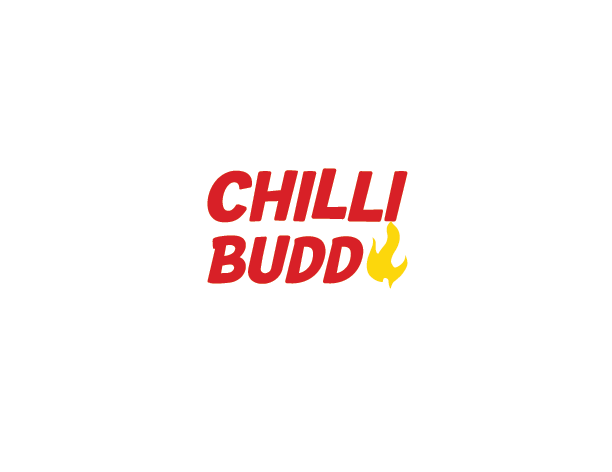
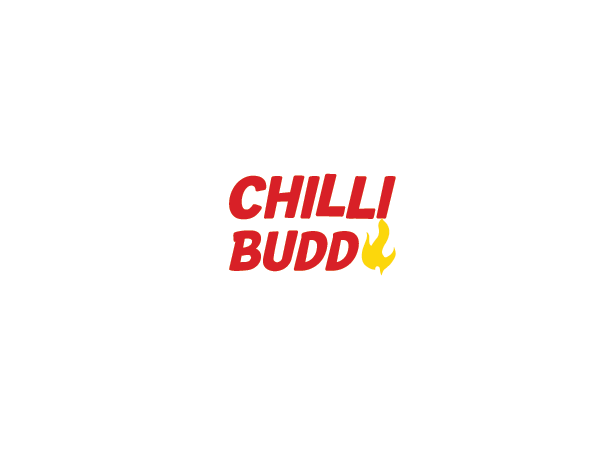
Fixed splash screen and edited app.js

Changed region(s): [[0.3415, 0.3559, 0.683, 0.6229]]

diff --git a/src/components/templates/Main/index.js b/src/components/templates/Main/index.js
@@ -45,7 +45,7 @@ export default ({
   noImageAdvertisement,
   noImageHeaderSlider,
   readLoadingAdvertisement,
-  readLoadingRoute,
+  readLoadingCategoryList,
   readLoadingRouteTicket,
   readLoadingHeaderImages,
 }) => {
@@ -101,7 +101,7 @@ export default ({
             >
               <View style={styles.textHolderStyle2}>
                 <CustomIcon name={data.icon} size={30} style={styles.categoryIcon} />
-                <Text style={styles.cardTitle2}>{data.title}</Text>
+                <Text style={styles.cardTitle2}> {data.title} </Text>
               </View>
             </ImageBackground>
           </CardSection>
@@ -139,10 +139,10 @@ export default ({
           )}
         </View>
 
-        {readLoadingRoute ? (
+        {readLoadingCategoryList ? (
           <View style={styles.subContainer2}>
             <View>
-              <Text style={styles.sectionTitle}>{sectionTitle1}</Text>
+              <Text style={styles.sectionTitle}> {sectionTitle1} </Text>
             </View>
             <VirtualizedList
               vertical
@@ -159,7 +159,7 @@ export default ({
         ) : dataSource2.length != 0 ? (
           <View style={styles.subContainer2}>
             <View>
-              <Text style={styles.sectionTitle}>{sectionTitle1}</Text>
+              <Text style={styles.sectionTitle}> {sectionTitle1} </Text>
             </View>
             <FlatList
               vertical

diff --git a/src/screens/main/MainScreen/index.js b/src/screens/main/MainScreen/index.js
@@ -139,7 +139,7 @@ class index extends Component {
         noImageAdvertisement={noImageAdvertisement}
         noImageHeaderSlider={noImageHeaderSlider}
         readLoadingAdvertisement={readLoadingAdvertisement}
-        readLoadingRoute={readLoadingRoute}
+        readLoadingCategoryList={readLoadingRoute}
         readLoadingRouteTicket={readLoadingRouteTicket}
         readLoadingHeaderImages={readLoadingHeaderImages}
       />

diff --git a/src/components/templates/Main/styles.js b/src/components/templates/Main/styles.js
@@ -52,7 +52,6 @@ const styles = StyleSheet.create({
     fontSize: Platform.OS === "ios" && Platform.isPad === true ? 40 : 22,
     marginBottom: Platform.OS === "ios" && Platform.isPad === true ? 20 : 5,
     marginTop: "5%",
-    //marginLeft: 20,
     fontFamily: "KomikaAxis",
     color: Colors.PRIMARY,
   },
